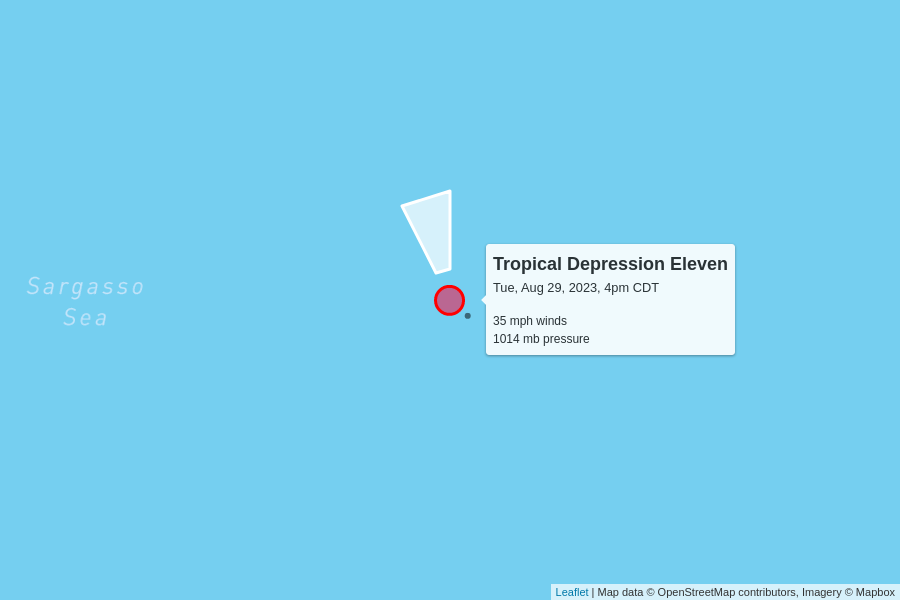
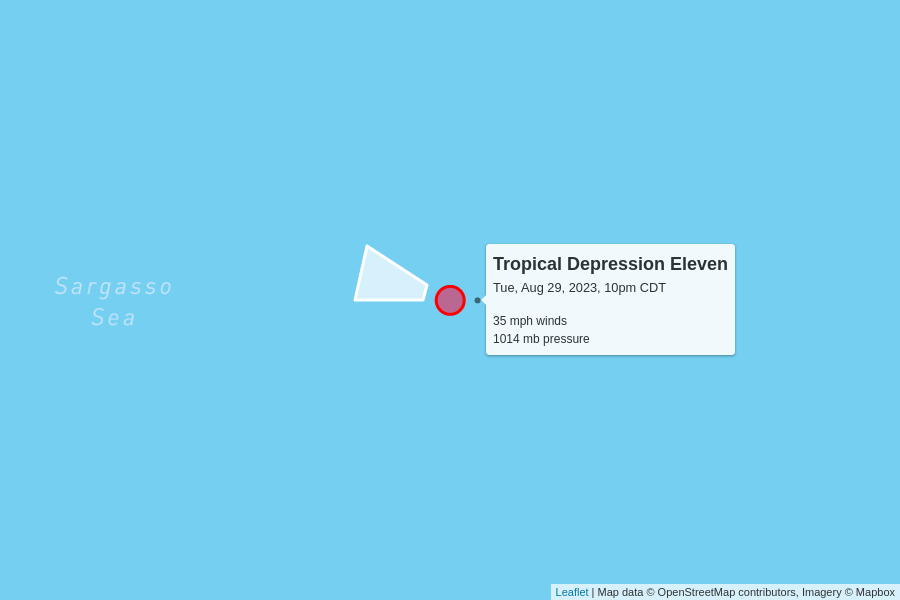
automatic update

Changed region(s): [[0.3733, 0.3, 0.5289, 0.54], [0.0311, 0.45, 0.1867, 0.54], [0.6844, 0.45, 0.7467, 0.51]]

diff --git a/docs/index.html b/docs/index.html
@@ -97,54 +97,10 @@
 
     <table>
       <tr>
-        <td colspan="6" class="storm category-2" >
-          <h2>
-            Hurricane Idalia - Category 2
-            <p class="updated">last updated <span data-time>2023-08-30T02:00:00.000Z</span></p>
-          </h2>
-        </td>
-      </tr>
-      
-      <tr>
-        <th class="spacer"></th>
-        <th>wind speed</th>
-        <th>central pressure</th>
-        <th>movement</th>
-        <th>data (CSV)</th>
-        <th>National Hurricane Center</th>
-      </tr>
-      <tr>
-        <td class="spacer"></td>
-        <td>110 mph</td>
-        <td>960 mb</td>
-        <td>
-          18 mph to the north
-          <br/>
-          <span style="display: inline-block; font-size: 1.5em; transform: rotate(10deg);">↑</span>
-        </td>
-        <td><a href="https://raw.githubusercontent.com/mgwalker/atlantic-hurricanes/main/data/csv/AL102023.csv">AL102023.csv</a></td>
-        <td><a href="https://www.nhc.noaa.gov/archive/2023/IDALIA.shtml?">NHC advisories</a></td>
-      </tr>
-      <tr id="storm_AL102023" >
-        <td class="spacer">
-        <td colspan="5">
-          <figure>
-            <img src="AL102023.png">
-            <figcaption>
-              Map data &copy; <a href="https://www.openstreetmap.org/copyright">OpenStreetMap</a> contributors,
-              Imagery &copy; <a href="https://www.mapbox.com/">Mapbox</a> |
-              <a href="https://www.mapbox.com/map-feedback/" target="_blank">Improve this map</a>
-            </figcaption>
-          </figure>
-        </td>
-      </tr>
-      
-
-      <tr>
         <td colspan="6" class="storm category-3" >
           <h2>
             Hurricane Franklin - Category 3
-            <p class="updated">last updated <span data-time>2023-08-30T00:00:00.000Z</span></p>
+            <p class="updated">last updated <span data-time>2023-08-30T03:00:00.000Z</span></p>
           </h2>
         </td>
       </tr>
@@ -159,8 +115,8 @@
       </tr>
       <tr>
         <td class="spacer"></td>
-        <td>125 mph</td>
-        <td>947 mb</td>
+        <td>115 mph</td>
+        <td>953 mb</td>
         <td>
           12 mph to the northeast
           <br/>
@@ -185,10 +141,54 @@
       
 
       <tr>
+        <td colspan="6" class="storm category-2" >
+          <h2>
+            Hurricane Idalia - Category 2
+            <p class="updated">last updated <span data-time>2023-08-30T03:00:00.000Z</span></p>
+          </h2>
+        </td>
+      </tr>
+      
+      <tr>
+        <th class="spacer"></th>
+        <th>wind speed</th>
+        <th>central pressure</th>
+        <th>movement</th>
+        <th>data (CSV)</th>
+        <th>National Hurricane Center</th>
+      </tr>
+      <tr>
+        <td class="spacer"></td>
+        <td>110 mph</td>
+        <td>958 mb</td>
+        <td>
+          18 mph to the north
+          <br/>
+          <span style="display: inline-block; font-size: 1.5em; transform: rotate(10deg);">↑</span>
+        </td>
+        <td><a href="https://raw.githubusercontent.com/mgwalker/atlantic-hurricanes/main/data/csv/AL102023.csv">AL102023.csv</a></td>
+        <td><a href="https://www.nhc.noaa.gov/archive/2023/IDALIA.shtml?">NHC advisories</a></td>
+      </tr>
+      <tr id="storm_AL102023" >
+        <td class="spacer">
+        <td colspan="5">
+          <figure>
+            <img src="AL102023.png">
+            <figcaption>
+              Map data &copy; <a href="https://www.openstreetmap.org/copyright">OpenStreetMap</a> contributors,
+              Imagery &copy; <a href="https://www.mapbox.com/">Mapbox</a> |
+              <a href="https://www.mapbox.com/map-feedback/" target="_blank">Improve this map</a>
+            </figcaption>
+          </figure>
+        </td>
+      </tr>
+      
+
+      <tr>
         <td colspan="6" class="storm category-0" >
           <h2>
             Tropical Depression Eleven
-            <p class="updated">last updated <span data-time>2023-08-29T21:00:00.000Z</span></p>
+            <p class="updated">last updated <span data-time>2023-08-30T03:00:00.000Z</span></p>
           </h2>
         </td>
       </tr>
@@ -206,9 +206,9 @@
         <td>35 mph</td>
         <td>1014 mb</td>
         <td>
-          2 mph to the north-northwest
+          2 mph to the west-northwest
           <br/>
-          <span style="display: inline-block; font-size: 1.5em; transform: rotate(345deg);">↑</span>
+          <span style="display: inline-block; font-size: 1.5em; transform: rotate(285deg);">↑</span>
         </td>
         <td><a href="https://raw.githubusercontent.com/mgwalker/atlantic-hurricanes/main/data/csv/AL112023.csv">AL112023.csv</a></td>
         <td><a href="https://www.nhc.noaa.gov/archive/2023/ELEVEN.shtml?">NHC advisories</a></td>
